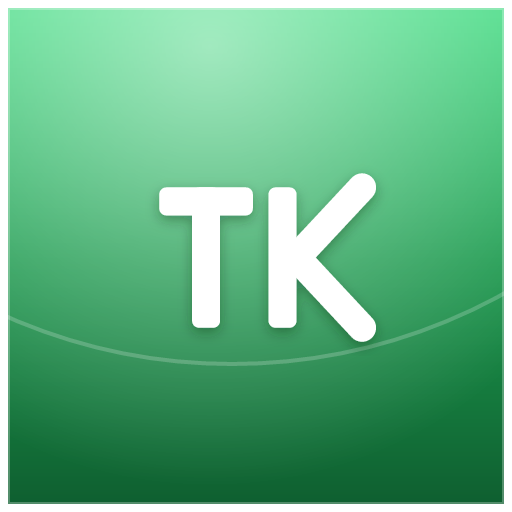
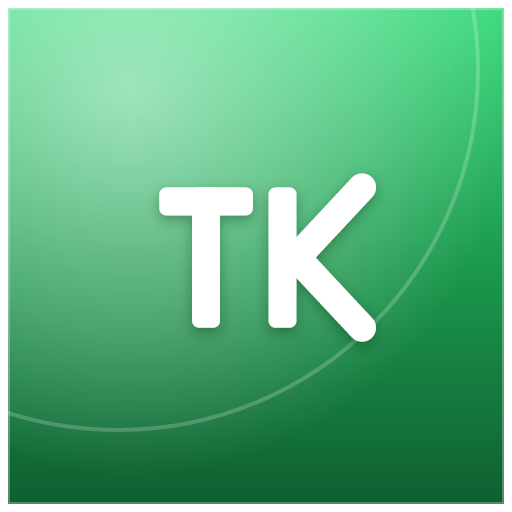
fix: โลโก้ TK — เว้ากระจกเฉพาะมุมบนซ้าย (ตามที่ชี้ในรูป)
เดิม dome เต็มความกว้าง → ย้ายเงา+เส้นโค้งกระจกมาอยู่เฉพาะมุมบนซ้าย
(radial + วงโค้งชิดมุมบนซ้าย) · sync generator · icon.svg · Logo.tsx + PNG

diff --git a/src/components/Logo.tsx b/src/components/Logo.tsx
@@ -22,9 +22,9 @@ export function Logo({ size = 40, className }: { size?: number; className?: stri
           <stop offset="0.5" stopColor="#1c9a4e" />
           <stop offset="1" stopColor="#0f5f30" />
         </linearGradient>
-        <radialGradient id="tk-gloss" cx="210" cy="46" r="440" gradientUnits="userSpaceOnUse">
+        <radialGradient id="tk-gloss" cx="130" cy="96" r="380" gradientUnits="userSpaceOnUse">
           <stop offset="0" stopColor="#ffffff" stopOpacity="0.52" />
-          <stop offset="0.62" stopColor="#ffffff" stopOpacity="0.20" />
+          <stop offset="0.62" stopColor="#ffffff" stopOpacity="0.22" />
           <stop offset="1" stopColor="#ffffff" stopOpacity="0" />
         </radialGradient>
         <clipPath id="tk-clip">
@@ -34,7 +34,7 @@ export function Logo({ size = 40, className }: { size?: number; className?: stri
       <rect x="8" y="8" width="496" height="496" rx="108" fill="url(#tk-bg)" />
       <g clipPath="url(#tk-clip)">
         <rect x="8" y="8" width="496" height="496" fill="url(#tk-gloss)" />
-        <circle cx="232" cy="-196" r="560" fill="none" stroke="#ffffff" strokeOpacity="0.20" strokeWidth="4" />
+        <circle cx="118" cy="70" r="360" fill="none" stroke="#ffffff" strokeOpacity="0.20" strokeWidth="4" />
       </g>
       <rect x="9" y="9" width="494" height="494" rx="107" fill="none" stroke="#ffffff" strokeOpacity="0.28" strokeWidth="2" />
       {/* TK monogram */}
